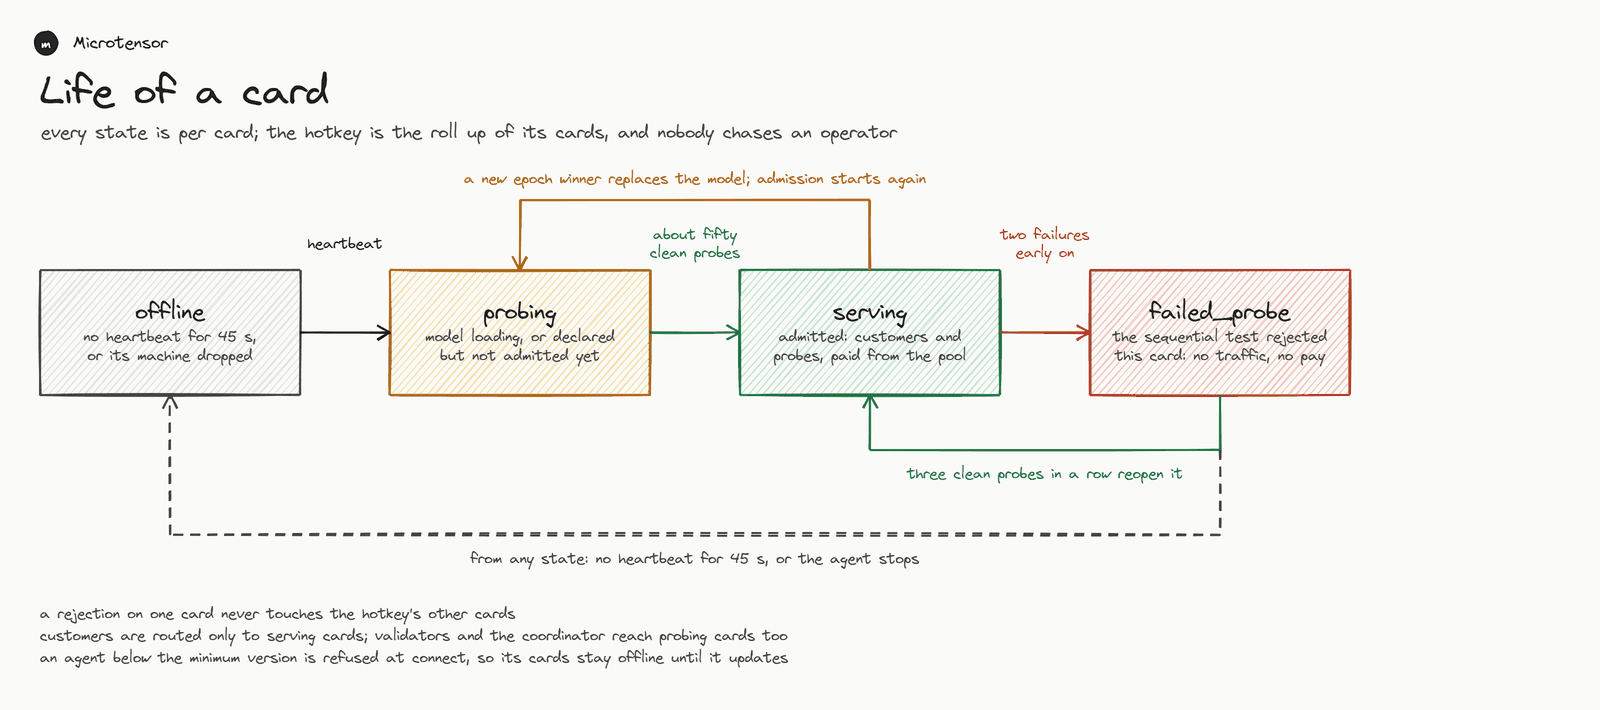
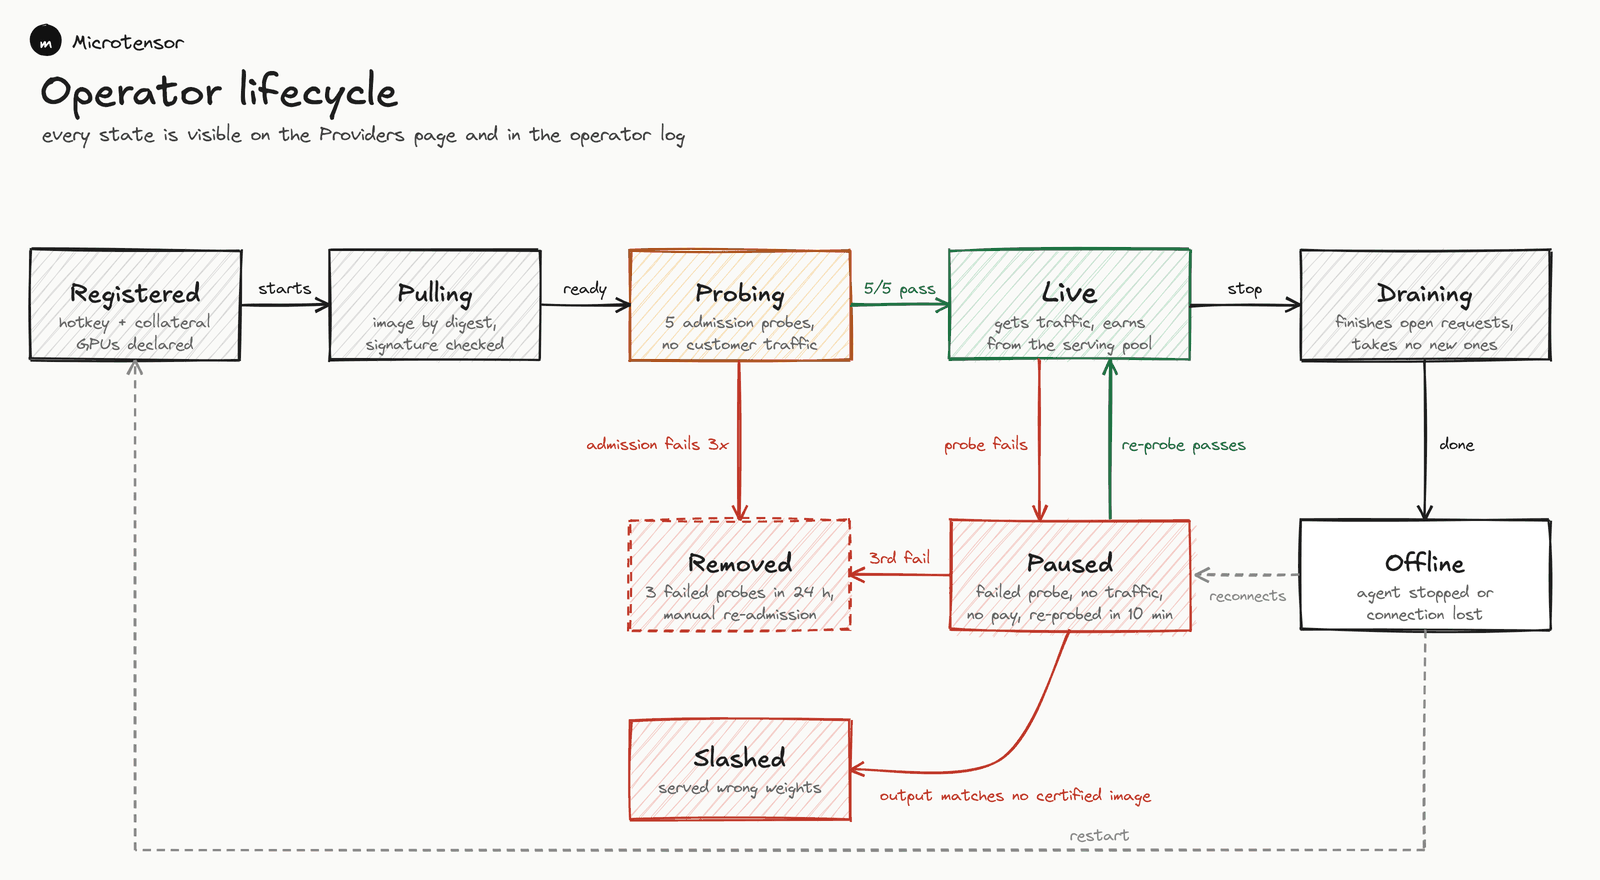
Use the spec's figures now that the rules match (#216)

diff --git a/docs/inference_miner.md b/docs/inference_miner.md
@@ -4,11 +4,13 @@ Netuid **576** on Bittensor testnet. An inference operator holds the certified s
 
 <img src="assets/serving-overview.png" width="100%" alt="How inference serving fits together: customers reach the gateway, the gateway routes to operator cards over outbound websockets, the coordinator probes through the gateway, validators score from the gateway's records">
 
-The gateway keeps the registry of cards, routes every request to one card, meters it and records it. The agent on each machine dials out, so nothing listens on a public port and a rented GPU works. The coordinator and permitted validators probe through the same gateway, and validators set the serving pool weights on CPU from the gateway's records and the probe verdicts. The frontier fallback in the figure is not switched on yet: a request no card can answer is refused and recorded as refused.
+The gateway keeps the registry of cards, routes every request to one card, meters it and signs a receipt for it. The agent on each machine dials out, so nothing listens on a public port and a rented GPU works. The coordinator and permitted validators probe through the same gateway, and validators set the serving pool weights on CPU from the receipts and the probe verdicts. The frontier model answers only when no card can, and only where the gateway is given an upstream; otherwise such a request is refused and recorded.
 
 ## What you run
 
-Each held system is the four part artifact its miner submitted and validators certified: a small model served by vLLM, a router served as a classifier, and the miner's harness and repair code running in a sandbox with no network beyond four service URLs. Your host runs the same stack a validator runs, one system per GPU, on the engine image and digest the arena was certified with (`images.engine` in the catalogue), and dials out to the gateway over a websocket. Nothing listens on a public port.
+<img src="assets/serving-image.png" width="100%" alt="From a settled epoch to a certified image: the epoch settles, the coordinator builds the image, verifies it on the reference GPU, signs it and publishes it">
+
+Each held system is the four part artifact its miner submitted and validators certified: a small model served by vLLM, a router served as a classifier, and the miner's harness and repair code. After an epoch settles the coordinator builds one image per winning submission holding the engine, the weights, the harness, the router and the repair code, replays forty scored calls through it on the reference GPU requiring an exact token match, signs the manifest and publishes the image to the registry and the archive; the catalogue then carries it as `images.certified`. Your host runs that image, one per GPU, and dials out to the gateway over a websocket. Nothing listens on a public port.
 
 ## GPUs
 
@@ -113,11 +115,11 @@ Certified systems run on the engine build their arena was certified with: the ca
 
 ## 4. Admission
 
-<img src="assets/serving-probes.png" width="100%" alt="How a card is checked: a probe is picked, sent through the gateway, answered by the card, graded by the prober, recorded per card and fed to a sequential test">
+<img src="assets/serving-probes.png" width="100%" alt="How the coordinator checks operators: a probe is picked, sent through the gateway, answered by the card, checked for exact tokens, the envelope and quality, then passed or failed">
 
 Probes reach each card through the gateway on the same path and frames as customer traffic, so a card cannot tell them apart. Three kinds exist: a hidden item from the withheld pool, graded with the arena's grader and passed at a quality of at least 0.60 inside the envelope; an exact token check, the same request replayed on the reference run, whose output tokens must match; and a short canary with a known reply. Admission is five probes in a row, all passing; after that a live card sees about one probe every two to three hours (hidden three times in five, exact and canary once each), plus one after any timeout. The coordinator runs the loop for every card, and validators the network permits add to it. A failed probe pauses the card: no traffic and no pay, probed again after ten minutes, back to serving on a pass. Three failed probes within 24 hours remove the card until the team re-admits it by hand; an exact token mismatch the coordinator confirms on its reference run slashes the operator. The hotkey's other cards carry on throughout. A new epoch winner resets admission for that model, so re-admission after each epoch is normal. The probe log on the provider page shows kind, size and timings, never the item.
 
-<img src="assets/serving-lifecycle.png" width="100%" alt="Life of a card: offline, probing, serving and failed_probe, with the transitions between them">
+<img src="assets/serving-lifecycle.png" width="100%" alt="Operator lifecycle: registered, pulling, probing, live, paused, removed, draining, offline and slashed, with the transitions between them">
 
 | State | Meaning | Customers | Paid |
 |---|---|---|---|
@@ -133,7 +135,7 @@ Probes reach each card through the gateway on the same path and frames as custom
 
 ## How a request is answered
 
-<img src="assets/serving-request.png" width="100%" alt="One request end to end: the gateway picks the freest serving card, sends the request down the websocket naming the card, streams the answer back and records the usage per card">
+<img src="assets/serving-request.png" width="100%" alt="One request end to end: the gateway picks a live operator, sends the request down its websocket, retries once on another operator when no first token arrives in time, streams the answer back, signs a receipt, and falls back to the frontier only when both fail">
 
 The gateway picks a serving card that holds the model, lowest in flight first, and sends a `request` frame with an id, the card, the deadline and `{task, floor, max_tokens}` over the websocket. The host refuses a request whose deadline has passed, registers the task's schema as a SQLite database for the sandbox tools, calls the harness (`POST /harness/run`), sends an empty `chunk` the moment the harness makes its first model call, asks the router for the probability that the draft is right, and answers a `done` frame with `{answer, p, floor_met, verified, trace, usage, ttft_ms, total_ms}`. `floor_met` is whether the harness's own check passed and `p` cleared the customer's quality floor. The gateway counts the tokens, times the first token and the end itself, signs a receipt and records one row per request and card; nothing an operator reports is used for pay. No first token within the limit means the gateway cancels and retries once on another card; when no serving card holds the model the request falls back to the frontier relay where one is configured and is otherwise refused and recorded, which raises `wanted`. No frontier call happens on an operator.
 
